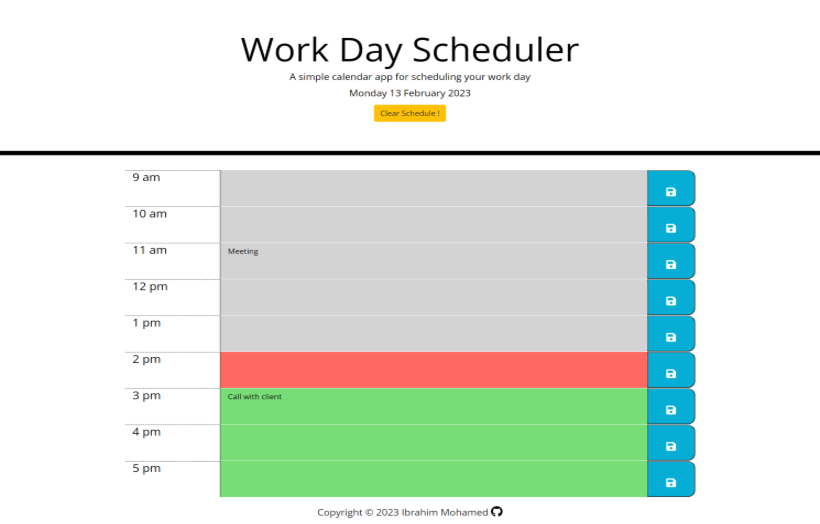
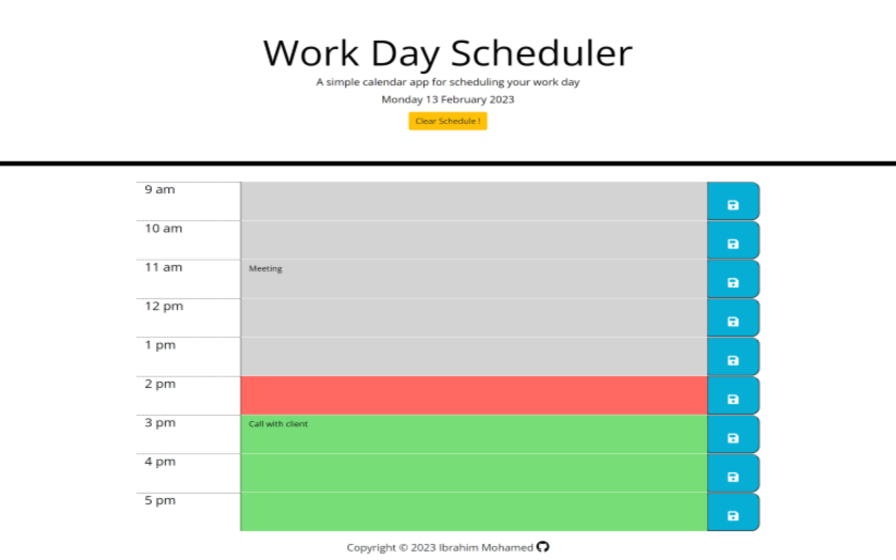
Add footer

diff --git a/index.html b/index.html
@@ -101,45 +101,43 @@
       <div class="card-deck">
           <div class="col-12 col-md-6 col-lg-4 mb-5">
               <div class="card">
-                  <a href="https://ibrahim-mohamed45.github.io/Rock-Paper-Scissors/" target="_blank">
                       <img src="./assets/images/Project-1.png" class="card-img-top" aria-hidden="true" alt="..."></a>
                   <div class="card-body">
-                      <h5 class="card-title">Rock Paper Scissors Game</h5>
+                      <h5 class="card-title">Rock Paper Scissors</h5>
                       <p class="card-text">I created this using JS, Tailwind and HTML.</p>
+                      <br>
                       <div class="links">
-                        <a href="#" class="card-link align-items-end">GitHub</a>
-                        <a href="https://ibrahim-mohamed45.github.io/Rock-Paper-Scissors/" target="_blank" class="card-link align-items-end">Live site</a>
+                        <a href="https://github.com/Ibrahim-Mohamed45/Rock-Paper-Scissors" target="_blank" class="card-link">GitHub</a>
+                        <a href="https://ibrahim-mohamed45.github.io/Rock-Paper-Scissors/" target="_blank" class="card-link">Live site</a>
                       </div>
                   </div>
               </div>
           </div>
 
           <div class="col-12 col-md-6 col-lg-4 mb-5">
+            <div class="card">
+                    <img src="./assets/images/Project-3.png" class="card-img-top" alt="..."></a>
+                <div class="card-body">
+                    <h5 class="card-title">Timed Code Quiz</h5>
+                    <p class="card-text">I created this using HTML, CSS and JS.</p>
+                    <br>
+                    <div class="links">
+                      <a href="https://github.com/Ibrahim-Mohamed45/Timed-Code-Quiz" target="_blank" class="card-link">GitHub</a>
+                      <a href="https://ibrahim-mohamed45.github.io/Timed-Code-Quiz/" target="_blank" class="card-link">Live site</a>
+                    </div>
+                </div>
+            </div>
+        </div>
+
+          <div class="col-12 col-md-6 col-lg-4 mb-5">
               <div class="card">
-                  <a href="https://ibrahim-mohamed45.github.io/Weather-Forecast-Dashboard/" target="_blank">
                       <img src="./assets/images/Project-2.png" class="card-img-top " alt="..."></a>
                   <div class="card-body">
                       <h5 class="card-title">Weather Dashboard</h5>
                       <p class="card-text">I created this using the OpenWeather API, JS, jQuery, Moment.js, Bootstrap and HTML.</p>
                       <div class="links">
-                        <a href="#" class="card-link align-items-end">GitHub</a>
-                        <a href="https://ibrahim-mohamed45.github.io/Weather-Forecast-Dashboard/" target="_blank" class="card-link align-items-end">Live site</a>
-                      </div>
-                  </div>
-              </div>
-          </div>
-          
-
-          <div class="col-12 col-md-6 col-lg-4 mb-5">
-              <div class="card">
-                  <a href="https://ibrahim-mohamed45.github.io/Timed-Code-Quiz/" target="_blank">
-                      <img src="./assets/images/Project-3.png" class="card-img-top" alt="..."></a>
-                  <div class="card-body">
-                      <h5 class="card-title">Timed Code Quiz</h5>
-                      <p class="card-text">I created this using HTML, CSS and JS.</p>
-                      <div class="links">
-                        <a href="#" class="card-link align-items-end">GitHub</a>
-                        <a href="https://ibrahim-mohamed45.github.io/Timed-Code-Quiz/" target="_blank" class="card-link align-items-end">Live site</a>
+                        <a href="https://github.com/Ibrahim-Mohamed45/Weather-Forecast-Dashboard" target="_blank" class="card-link">GitHub</a>
+                        <a href="https://ibrahim-mohamed45.github.io/Weather-Forecast-Dashboard/" target="_blank" class="card-link">Live site</a>
                       </div>
                   </div>
               </div>
@@ -147,14 +145,13 @@
 
           <div class="col-12 col-md-6 col-lg-4 mb-5">
               <div class="card">
-                  <a href="https://ibrahim-mohamed45.github.io/Work-Day-Scheduler/" target="_blank">
                       <img src="./assets/images/Project-4.png" class="card-img-top" alt="..."></a>
                   <div class="card-body">
                       <h5 class="card-title">Work Day Scheduler</h5>
                       <p class="card-text">I created this using HTML, CSS, JS, jQuery, Day.js, Bootstrap.</p>
                       <div class="links">
-                        <a href="#" class="card-link align-items-end">GitHub</a>
-                        <a href="https://ibrahim-mohamed45.github.io/Work-Day-Scheduler/" target="_blank" class="card-link align-items-end">Live site</a>
+                        <a href="https://github.com/Ibrahim-Mohamed45/Work-Day-Scheduler" target="_blank" class="card-link">GitHub</a>
+                        <a href="https://ibrahim-mohamed45.github.io/Work-Day-Scheduler/" target="_blank" class="card-link">Live site</a>
                       </div>
                   </div>
               </div>
@@ -162,14 +159,14 @@
 
           <div class="col-12 col-md-6 col-lg-4 mb-5">
               <div class="card">
-                  <a href="https://ibrahim-mohamed45.github.io/Password-Generator/" target="_blank">
                       <img src="./assets/images/Project-5.png" class="card-img-top" alt="..."></a>
                   <div class="card-body">
                       <h5 class="card-title">Password Generator</h5>
                       <p class="card-text">I created this using HTML, CSS and JS.</p>
+                      <br>
                       <div class="links">
-                        <a href="#" class="card-link align-items-end">GitHub</a>
-                        <a href="https://ibrahim-mohamed45.github.io/Password-Generator/" target="_blank" class="card-link align-items-end">Live site</a>
+                        <a href="https://github.com/Ibrahim-Mohamed45/Password-Generator" target="_blank" class="card-link">GitHub</a>
+                        <a href="https://ibrahim-mohamed45.github.io/Password-Generator/" target="_blank" class="card-link">Live site</a>
                       </div>
                   </div>
               </div>
@@ -177,14 +174,14 @@
 
           <div class="col-12 col-md-6 col-lg-4 mb-5">
               <div class="card">
-                  <a href="https://ibrahim-mohamed45.github.io/Portfolio-Placeholder/" target="_blank">
                       <img src="./assets/images/Project-6.jpg" class="card-img-top" alt="..."></a>
                   <div class="card-body">
                       <h5 class="card-title">Project 6 - coming soon</h5>
                       <p class="card-text">This project is yet to created.</p>
+                      <br>
                       <div class="links">
-                        <a href="#" class="card-link align-items-end">GitHub</a>
-                        <a href="https://ibrahim-mohamed45.github.io/Portfolio-Placeholder/" target="_blank" class="card-link align-items-end">Live site</a>
+                        <a href="https://github.com/Ibrahim-Mohamed45/Portfolio-Placeholder" target="_blank" class="card-link">GitHub</a>
+                        <a href="https://ibrahim-mohamed45.github.io/Portfolio-Placeholder/" target="_blank" class="card-link">Live site</a>
                       </div>
                   </div>
               </div>
@@ -192,6 +189,8 @@
       </div>
   </section>
     <section id="contact">
+      <h2 class="Sub-Heading-C"><b>Contact me</b></h2>
+      <div class="form-div">
       <form action="https://formsubmit.co/ibrahim.mohamed1218@gmail.com" method="POST">
         <h3>GET IN TOUCH</h3>
         <input type="hidden" name="_subject" value="New submission!">
@@ -200,8 +199,20 @@
         <textarea name="message" rows = "5" cols = "60" placeholder="Your message"></textarea>
         <button type="submit">Send</button>
       </form>
+      </div>
     </section>
-    <footer>Made by Ibrahim</footer>
+    <footer class="footer">
+      <p>
+        Copyright ©
+        <script>
+          document.write(new Date().getFullYear());
+        </script>
+        Ibrahim Mohamed
+        <a href="https://github.com/Ibrahim-Mohamed45" target="_blank">
+          <i class="fa fa-github" style="color: black"></i>
+        </a>
+      </p>
+    </footer>
 
     <script src="./assets/js/script.js"></script>
   </body>

diff --git a/assets/css/style.css b/assets/css/style.css
@@ -56,14 +56,15 @@ body {
 }
 
 #home {
-  height: 120vh;
   position: relative;
 }
 
 .title {
   display: block;
   padding: 0.75rem;
+  padding-bottom: 20vh;
   text-align: center;
+  height: 100%;
 }
 
 .title h1 {
@@ -124,11 +125,10 @@ body {
 }
 
 .devices {
-  position: absolute;
-  left: 50%;
-  transform: translateX(-50%);
-  bottom: 0;
   width: 50%;
+  display: block;
+  margin-left: auto;
+  margin-right: auto;
 }
 
 #about {
@@ -137,14 +137,17 @@ body {
 
 .about-header {
   text-align: center;
-  padding-top: 60px;
+  padding-top: 4vh;
   margin-block-start: 0em;
   color: white;
 }
 
 .info {
-  text-align: center;
   color: white;
+  width: 50%;
+  text-align: center;
+  margin: auto;
+  padding-bottom: 20px;
 }
 
 .cardContainer {
@@ -155,7 +158,7 @@ body {
 .skills-card {
   background-color: white;
   color: black;
-  width: 25%;
+  width: 400px;
   padding: 10px;
   border-radius: 10px;
   text-align: center;
@@ -165,7 +168,7 @@ body {
 #front-end {
   background-color: #5BE9B9;
   border-radius: 50%;
-  margin-top: 10px;
+  margin-bottom: 8px;
 }
 
 .purple {
@@ -190,7 +193,6 @@ body {
 .card-body {
   color: white !important;
   background: #6e07f3 !important;
-  height: 23vh;
 }
 
 .card-text {
@@ -209,18 +211,26 @@ body {
 
 #contact {
   width: 100%;
-  height: 100vh;
   background: #6e07f3;
+}
+
+.Sub-Heading-C {
+  padding: 20px;
+  color: #fff;
+}
+
+.form-div {
   display: flex;
   align-items: center;
   justify-content: center;
+  padding-bottom: 8%;
 }
 
 form {
   background: #fff;
   display: flex;
   flex-direction: column;
-  padding: 20px 4vw;
+  padding: 30px 4vw;
   width: 90%;
   max-width: 600px;
   border-radius: 10px;
@@ -253,5 +263,40 @@ form button {
   width: 150px;
   margin: 20px auto 0;
   border-radius: 30px;
+}
 
+.footer {
+  text-align: center;
+  bottom: 0;
+  width: 100%;
+  font-size: 20px;
+  gap: 10px;
+  padding-top: 20px;
+}
+
+.fa-github {
+  font-size: 24px;
+  transition: transform 0.3s ease-in-out;
+}
+
+.fa-github:hover {
+  transform: rotate(360deg) scale(1.2);
+}
+
+@media only screen and (max-width: 1000px) {
+  .devices {
+    width: 90%;
+  }
+}
+
+@media only screen and (max-width: 600px) {
+  .info {
+    width: 80%;
+  }
+}
+
+@media only screen and (max-width: 500px) {
+  .skills-card {
+    width: 90%;
+  }
 }
